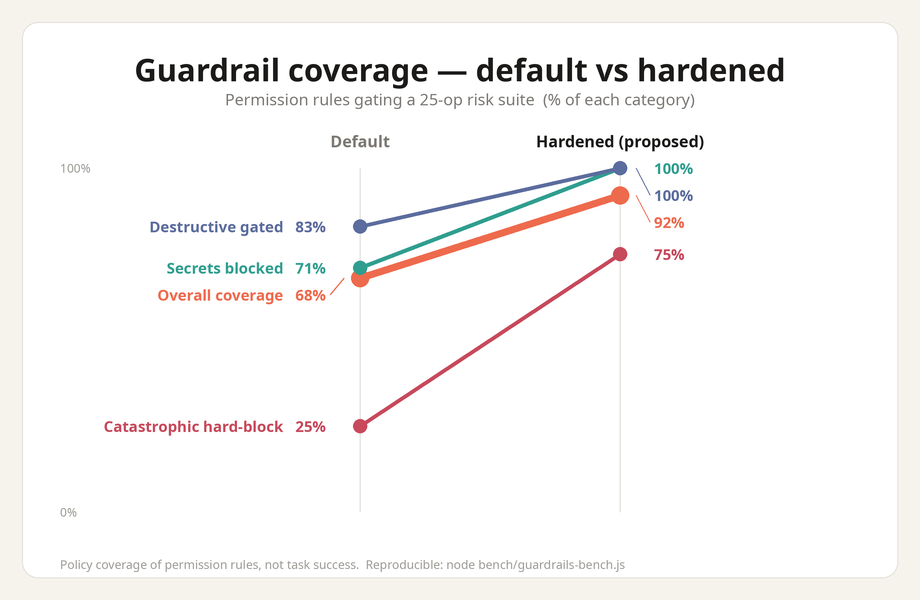
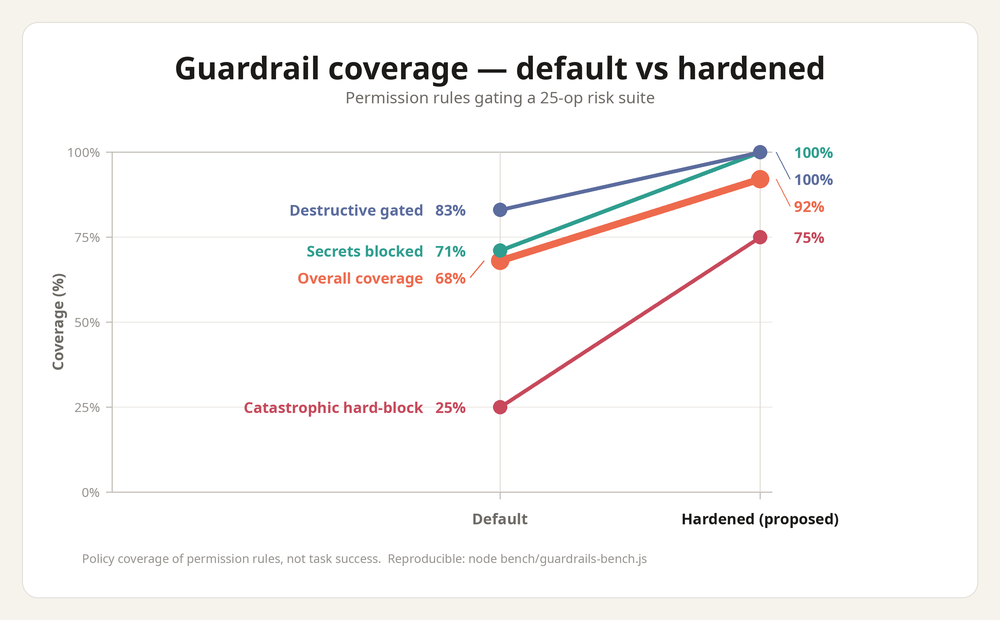
clarify chart axes

diff --git a/bench/gen-slope.py b/bench/gen-slope.py
@@ -1,5 +1,5 @@
 #!/usr/bin/env python3
-"""Render a slopegraph (before/after, % on the vertical axis) for the benchmark."""
+"""Render a slopegraph (before/after) with explicit axes for the benchmark."""
 import os
 from PIL import Image, ImageDraw, ImageFont
 
@@ -15,15 +15,15 @@ R = ["/usr/share/fonts/truetype/noto/NotoSans-Regular.ttf", "/usr/share/fonts/tr
 B = ["/usr/share/fonts/truetype/noto/NotoSans-Bold.ttf", "/usr/share/fonts/truetype/dejavu/DejaVuSans-Bold.ttf"]
 f_title = font(B, 31 * SS)
 f_sub   = font(R, 16 * SS)
-f_hdr   = font(B, 16 * SS)
+f_axis  = font(B, 15 * SS)   # axis titles / column labels
 f_name  = font(B, 15 * SS)
 f_val   = font(B, 15 * SS)
-f_anchor = font(R, 12 * SS)
+f_tick  = font(R, 13 * SS)
 f_foot  = font(R, 12 * SS)
 
 CREAM = (246, 243, 236); CARD = (255, 255, 255); BORDER = (227, 224, 218)
-INK = (28, 27, 25); GREY = (124, 121, 116); TICK = (158, 155, 150)
-RAIL = (224, 221, 215)
+INK = (28, 27, 25); GREY = (110, 107, 102); TICK = (150, 147, 142)
+GRID = (237, 234, 229); AXIS = (188, 184, 178); RAIL = (223, 220, 214)
 
 # (label, n, default%, hardened%, color, hero)
 ROWS = [
@@ -33,28 +33,49 @@ ROWS = [
     ("Destructive gated", 6, 83, 100, (91, 108, 158), False),
 ]
 
-W, H = 920 * SS, 600 * SS
+W, H = 1000 * SS, 620 * SS
 img = Image.new("RGB", (W, H), CREAM)
 d = ImageDraw.Draw(img)
 d.rounded_rectangle([22 * SS, 22 * SS, W - 22 * SS, H - 22 * SS], radius=16 * SS, fill=CARD, outline=BORDER, width=1 * SS)
 cx = W // 2
-d.text((cx, 48 * SS), "Guardrail coverage — default vs hardened", font=f_title, fill=INK, anchor="ma")
-d.text((cx, 88 * SS), "Permission rules gating a 25-op risk suite  (% of each category)", font=f_sub, fill=GREY, anchor="ma")
+d.text((cx, 46 * SS), "Guardrail coverage — default vs hardened", font=f_title, fill=INK, anchor="ma")
+d.text((cx, 86 * SS), "Permission rules gating a 25-op risk suite", font=f_sub, fill=GREY, anchor="ma")
 
-x_l, x_r = 360 * SS, 620 * SS
-pt, pb = 168 * SS, 512 * SS   # y for 100% .. 0%
+pt, pb = 152 * SS, 492 * SS
+spine_x = 112 * SS
+x_l, x_r = 500 * SS, 760 * SS
 
 def y_of(pct):
     return pb - (pb - pt) * pct / 100.0
 
-# column rails + headers + 0/100 anchors
+# --- Y axis: gridlines, ticks, spine, title ---
+for pct in (0, 25, 50, 75, 100):
+    gy = y_of(pct)
+    strong = pct in (0, 100)
+    d.line([spine_x, gy, x_r + 12 * SS, gy], fill=(AXIS if strong else GRID), width=1 * SS)
+    d.line([spine_x - 6 * SS, gy, spine_x, gy], fill=AXIS, width=1 * SS)  # tick mark
+    d.text((spine_x - 12 * SS, gy), f"{pct}%", font=f_tick, fill=TICK, anchor="rm")
+d.line([spine_x, pt, spine_x, pb], fill=AXIS, width=1 * SS)  # vertical spine
+
+def vtext(x, ymid, s, fnt, fill):
+    w = int(d.textlength(s, font=fnt)) + 6 * SS
+    asc, desc = fnt.getmetrics()
+    h = asc + desc + 6 * SS
+    tmp = Image.new("RGBA", (w, h), (0, 0, 0, 0))
+    ImageDraw.Draw(tmp).text((3 * SS, 3 * SS), s, font=fnt, fill=fill)
+    tmp = tmp.rotate(90, expand=True)
+    img.paste(tmp, (int(x), int(ymid - tmp.height / 2)), tmp)
+
+vtext(44 * SS, (pt + pb) / 2, "Coverage (%)", f_axis, GREY)
+
+# --- X axis: baseline already drawn at 0%; rails + bottom labels + ticks ---
 for x in (x_l, x_r):
     d.line([x, pt, x, pb], fill=RAIL, width=1 * SS)
-d.text((x_l, 130 * SS), "Default", font=f_hdr, fill=GREY, anchor="ma")
-d.text((x_r, 130 * SS), "Hardened (proposed)", font=f_hdr, fill=INK, anchor="ma")
-for pct in (0, 100):
-    d.text((x_l - 300 * SS, y_of(pct)), f"{pct}%", font=f_anchor, fill=TICK, anchor="lm")
+    d.line([x, pb, x, pb + 7 * SS], fill=AXIS, width=1 * SS)  # tick
+d.text((x_l, pb + 16 * SS), "Default", font=f_axis, fill=GREY, anchor="ma")
+d.text((x_r, pb + 16 * SS), "Hardened (proposed)", font=f_axis, fill=INK, anchor="ma")
 
+# --- slopes with direct labels (de-cluttered) ---
 def declutter(targets, gap):
     order = sorted(range(len(targets)), key=lambda i: targets[i])
     ys = [0] * len(targets); prev = -1e9
@@ -73,20 +94,18 @@ for i, (name, cnt, dv, hv, col, hero) in enumerate(ROWS):
     d.line([x_l, yl, x_r, yr], fill=col, width=lw)
     d.ellipse([x_l - rdot, yl - rdot, x_l + rdot, yl + rdot], fill=col)
     d.ellipse([x_r - rdot, yr - rdot, x_r + rdot, yr + rdot], fill=col)
-    # left label (name + value), de-cluttered y with leader
     ly = left_y[i]
     if abs(ly - yl) > 3 * SS:
         d.line([x_l - 16 * SS, yl, x_l - 30 * SS, ly], fill=col, width=1 * SS)
     val = f"{dv}%"; vw = d.textlength(val, font=f_val)
     d.text((x_l - 34 * SS, ly), val, font=f_val, fill=col, anchor="rm")
     d.text((x_l - 34 * SS - vw - 12 * SS, ly), name, font=f_name, fill=col, anchor="rm")
-    # right label (value), de-cluttered y with leader
     ry = right_y[i]
     if abs(ry - yr) > 3 * SS:
         d.line([x_r + 16 * SS, yr, x_r + 30 * SS, ry], fill=col, width=1 * SS)
     d.text((x_r + 34 * SS, ry), f"{hv}%", font=f_val, fill=col, anchor="lm")
 
-d.text((x_l - 300 * SS, pb + 44 * SS),
+d.text((spine_x - 30 * SS, pb + 58 * SS),
        "Policy coverage of permission rules, not task success.  Reproducible: node bench/guardrails-bench.js",
        font=f_foot, fill=TICK, anchor="la")
 